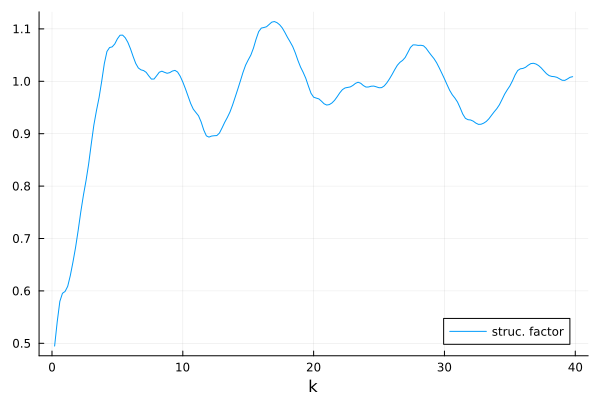
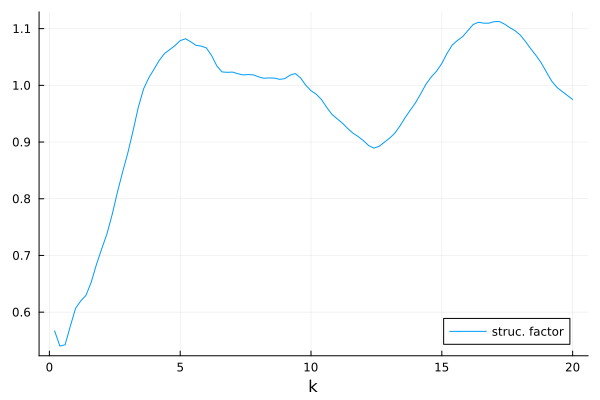
correct the README

diff --git a/README.md b/README.md
@@ -125,7 +125,8 @@ From the pair-correlation we can easily calculate the structure factor by using:
 
 rs = pair.r
 
-sfactor = structure_factor(pair; dk = 0.2, maxk = 40.0)
+ks = 0.2:0.2:20.0
+sfactor = structure_factor(pair, ks)
 
 plot(sfactor.k, sfactor.S,
     xlab = "k", lab = "struc. factor")
@@ -141,6 +142,9 @@ Let us consider a material filled with only one type of particle and use the Per
 pairtype = PercusYevick(3; rtol = 1e-3, maxlength = 200)
 
 # Percus-Yevick is currently implemented only for 3D. So we need to change the type of particle
+
+# choose the particle radius
+radius = 0.5
 
 s = Specie(
     HardMedium{3}(),
@@ -172,10 +176,13 @@ Note that for $x < 1$ the two particles of radius 0.5 would overlap, so the pair
 
 We can now calculate the structure factor:
 ```julia
-sfactor = structure_factor(pair; dk = 0.2, maxk = 20.0)
+ks = 0.2:0.2:20.0
+sfactor = structure_factor(pair, ks)
 
-plot(sfactor.k, sfactor.S)
+plot(sfactor.k, sfactor.S,
+    xlims = "ks", lab = "struct. factor")
 ```
+![../PY-30-struct.png](docs/src/assets/PY-30-struct.png)
 
 ## Bespoke pair-correlation
 
